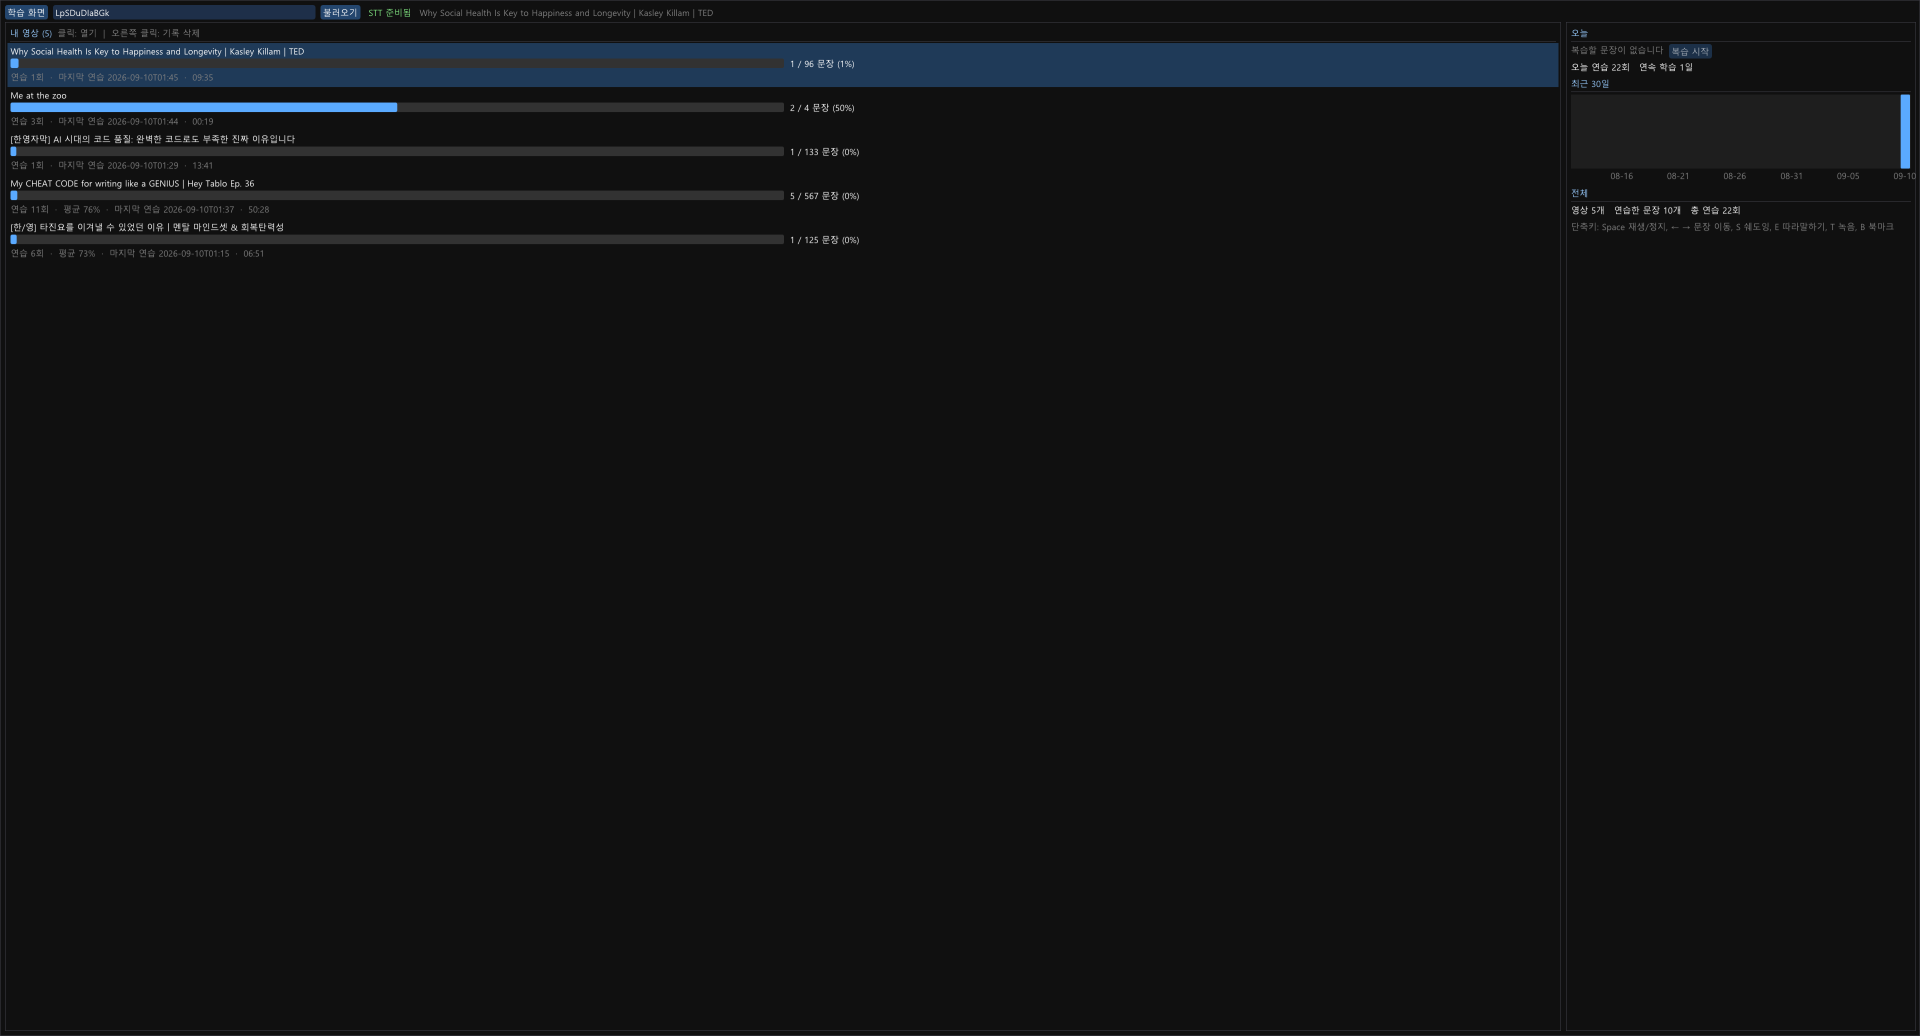
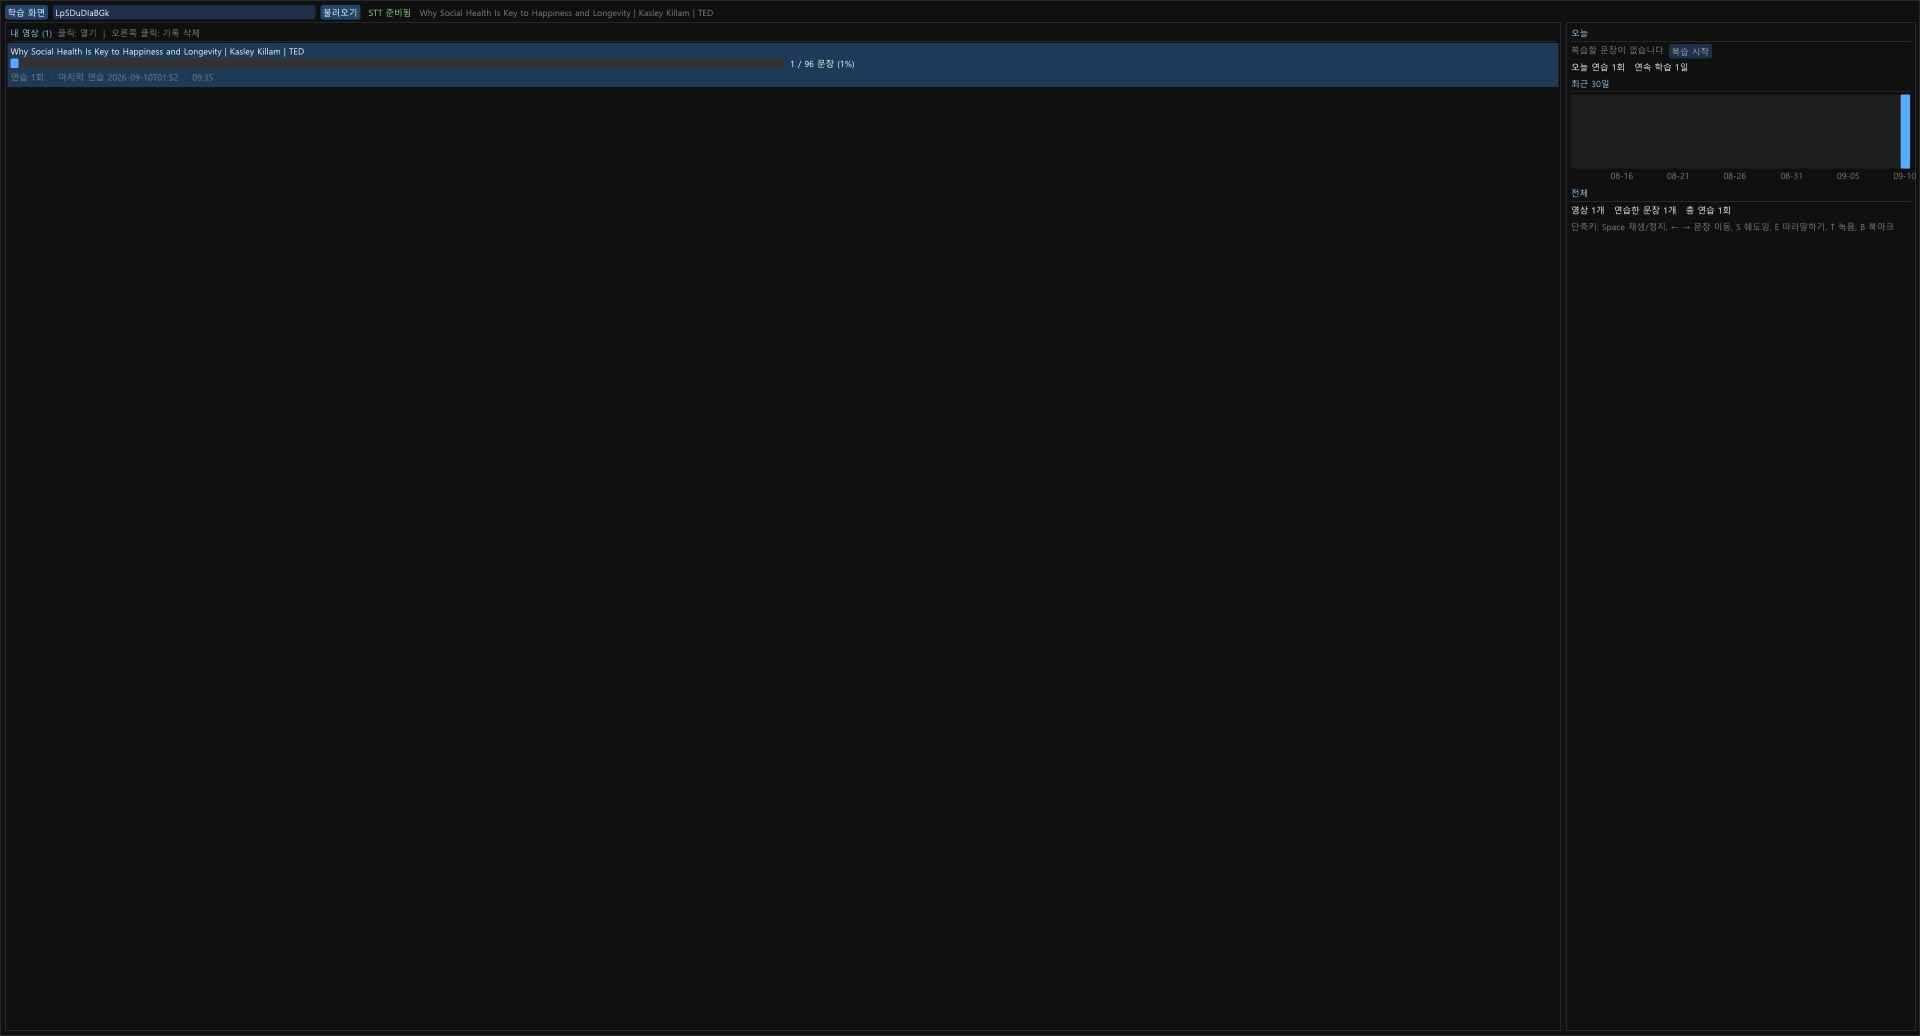
MIT 라이선스 추가, 시연 이미지 교체 (TED 영상만 표시)

Changed region(s): [[0.0, 0.0927, 0.4375, 0.2471], [0.875, 0.1853, 0.9062, 0.2162], [0.8438, 0.0618, 0.875, 0.0927]]

diff --git a/README.md b/README.md
@@ -129,3 +129,7 @@ scripts/setup-deps.ps1   의존성 설치
 - 문장 편집 (분할 / 병합)
 - 더 큰 whisper 모델 선택 (small.en), GPU 가속
 - 억양 · 속도 비교, 음소 단위 발음 피드백
+
+## 라이선스
+
+[MIT](LICENSE). 시연에 쓰인 영상은 TED 의 "Why Social Health Is Key to Happiness and Longevity | Kasley Killam" 이며 저작권은 TED 에 있습니다.
